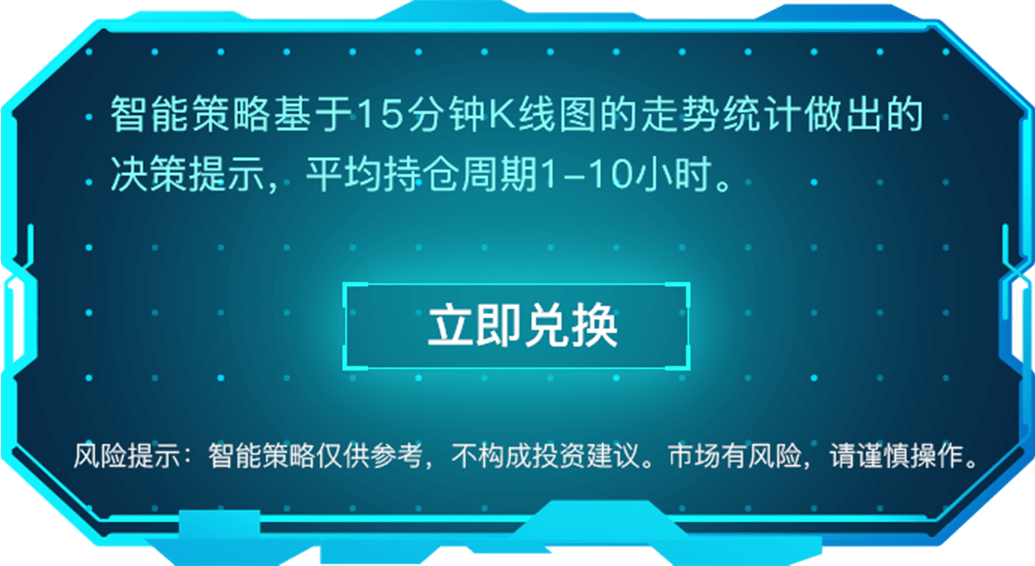
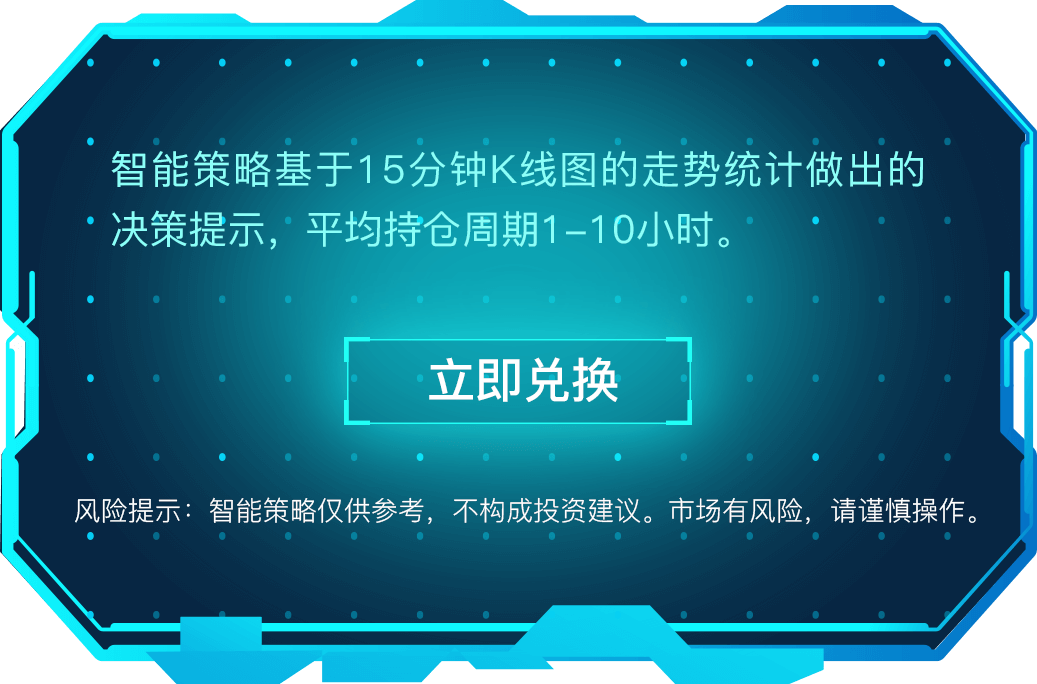
修改图表高度

diff --git a/src/utils/charts.fun.js b/src/utils/charts.fun.js
@@ -114,7 +114,8 @@ var chartFun = {
         {
           left: '10%',
           right: '8%',
-          height: '230px'
+          height: '230px',
+          top:"100px"
         },
         {
           left: '10%',
@@ -321,207 +322,6 @@ var chartFun = {
       ]
     }
 
-
-  var option1 = {
-    grid:[
-      {
-        left: '10%',
-        right: '8%',
-        height: '50%'
-      },
-      {
-        left: '10%',
-        right: '8%',
-        top: '63%',
-        height: '16%'
-      }
-    ],
-    //鼠标移上去提示
-    tooltip: {
-        trigger: 'item',
-        axisPointer: {
-            type: 'cross'
-        },
-      formatter: function(e){
-          console.log(e)
-
-        return "<div style='color:"+e.color+"'>" +
-          "<span>日期:"+e.name+"</span><br>" +
-          "<span>开盘:"+e.data[1]+"</span><br>" +
-          "<span>收盘:"+e.data[2]+"</span><br>" +
-          "<span>最低:"+e.data[3]+"</span><br>" +
-          "<span>最高:"+e.data[4]+"</span><br>" +
-          "</div>"
-      }
-    },
-    visualMap: {
-      show: false,
-      seriesIndex: 3,
-      dimension: 2,
-      pieces: [{
-        value: -1,
-        color: config.downColor
-      },{
-        value: 1,
-        color: config.upColor
-      }]
-    },
-    xAxis: [
-    //   {
-    //   type: 'category',
-    //   data: data.categoryData,
-    //   //scale: true,
-    //   //boundaryGap : false,
-    //   axisLabel:{ //调整x轴的lable
-    //     textStyle:{
-    //       fontSize:16 // 让字体变大
-    //     }
-    //   },
-    //
-    //   axisLine: {
-    //     onZero: false,
-    //     show:false,
-    //     lineStyle:{
-    //       color:"#d1d1d1",
-    //     }
-    //   },
-    //   splitLine: {show: false},
-    //   splitNumber: 20,
-    //   min: 'dataMin',
-    //   max: 'dataMax',
-    //   tooltip: {
-    //     trigger: 'axis',
-    //     axisPointer: {
-    //       type: 'cross'
-    //     }
-    //   },
-    // },
-      {
-        type: 'category',
-        data: data.categoryData,
-        scale: true,
-        boundaryGap : false,
-        axisLine: {onZero: false},
-        splitLine: {show: false},
-        splitNumber: 20,
-        min: 'dataMin',
-        max: 'dataMax',
-
-      },
-      {
-        type: 'category',
-        gridIndex: 1,
-        data: data.categoryData,
-        scale: true,
-        boundaryGap : false,
-        axisLine: {onZero: false},
-        axisTick: {show: false},
-        splitLine: {show: false},
-        axisLabel: {show: false},
-        splitNumber: 20,
-        min: 'dataMin',
-        max: 'dataMax'
-      }],
-    yAxis: [
-    //   {
-    //   scale: true,
-    //   show:true,
-    //   fontSize:24,
-    //   splitArea: {
-    //   },
-    //   axisLine: {
-    //     show:false,
-    //     lineStyle:{
-    //       color:"#d1d1d1",
-    //     }
-    //   },
-    //   axisLabel:{ //调整x轴的lable
-    //     textStyle:{
-    //       fontSize:16 // 让字体变大
-    //     }
-    //   },
-    //   splitLine:{
-    //     //show:false,
-    //     //横向实线
-    //     lineStyle:{
-    //       color:["#3e3e94"],
-    //     }
-    //   },
-    // },
-      {
-        scale: true,
-        splitArea: {
-          show: true
-        }
-      },
-      {
-        scale: true,
-        gridIndex: 1,
-        splitNumber: 1,
-        axisLabel: {show: false},
-        axisLine: {show: false},
-        axisTick: {show: false},
-        splitLine: {show: false}
-      }
-    ],
-    dataZoom: [
-      {
-        type: 'inside',
-        start: dataZoom.start,
-        end: dataZoom.end
-      }
-    ],
-    series: [
-      {
-        name: '数据',
-        type: 'candlestick',
-        data: data.values,
-        itemStyle: {
-          color :config.upColor,
-          color0: config.downColor,
-          borderColor: config.upBorderColor,
-          borderColor0: config.downBorderColor
-        },
-        markPoint: {
-          data: markPointList,
-          animationDuration:2000
-        }
-      },
-      {
-        name: '做空',
-        type: 'candlestick',
-        data: PointRelList.sellArray,
-        itemStyle: {
-          color :'#fffc00',
-          color0: '#fffc00',
-          borderColor: 'rgba(0,0,0,0)',
-          borderColor0: 'rgba(0,0,0,0)'
-        },
-      }
-      ,
-      {
-        name: '做多',
-        type: 'candlestick',
-        data: PointRelList.buyArray,
-        itemStyle: {
-          color :'#ff00ff',
-          color0: '#ff00ff',
-          borderColor: 'rgba(0,0,0,0)',
-          borderColor0: 'rgba(0,0,0,0)'
-        },
-      },
-      {
-        name: '值',
-        type: 'bar',
-        data: volumes,
-        lineStyle:{
-          color:"#fff"
-        }
-      }
-
-
-    ]
-  };
   return option;
 },
 

diff --git a/src/assets/style/index.css b/src/assets/style/index.css
@@ -36,13 +36,13 @@ font-size: 30px;background-color: rgba(255,255,255,0.1);  margin-bottom: 18px}
 .selsect_bar .active{ text-shadow: 0 0 7px #1bb5b5; color: #1bb5b5}
 .selsect_bar .active:after{ position: absolute; height: 5px; width: 100%; left: 0; bottom: 0; background-color: #1bb5b5; content: " "; box-shadow: 0 0 7px rgba(212,158,46,0.24)}
 .chart_title{ padding: 0 30px; font-size: 20px; color: #16fafc; height: 40px; line-height: 40px;}
-.chart_title2{padding: 0; position: absolute;left: 0; top: 399px}
+.chart_title2{padding: 0; position: absolute;left: 0; top: 474px}
 .ChartCandlestick{ padding: 0 30px; height: 397px;}
 
 
 .Chart1 .echarts{ width: 100%; height: 388px}
 .Chart1_tip{ line-height: 44px; color: #ff00ff; padding-right: 20px; position: absolute; height: 99px;
-left: 0; width: 90%; top: 332px; z-index: 100}
+left: 0; width: 90%; top: 406px; z-index: 100}
 .Chart1_tip .view{float: right; }
 .Chart1_tip .view img{ display: inline-block; vertical-align: middle }
 .Chart1_tip .view div{ display: inline-block; vertical-align: middle}
@@ -57,7 +57,7 @@ left: 0; width: 90%; top: 332px; z-index: 100}
 .redColor{ color: #d94e41}
 
 
-.chart_content{ position: relative; width: 690px; height: 640px; margin: auto; background-image: url(../kuang.png); background-repeat: no-repeat; background-position: center top}
+.chart_content{ background-size: 100% auto; position: relative; width: 690px; height: 683px; margin: auto; background-image: url(../kuang.png); background-repeat: no-repeat; background-position: center top}
 .charts{ width: 100%; height: 100%}
 .duihuan{ position: absolute; top: 1px; left: 1px; z-index: 10000}
 .icons{ height: 26px}
